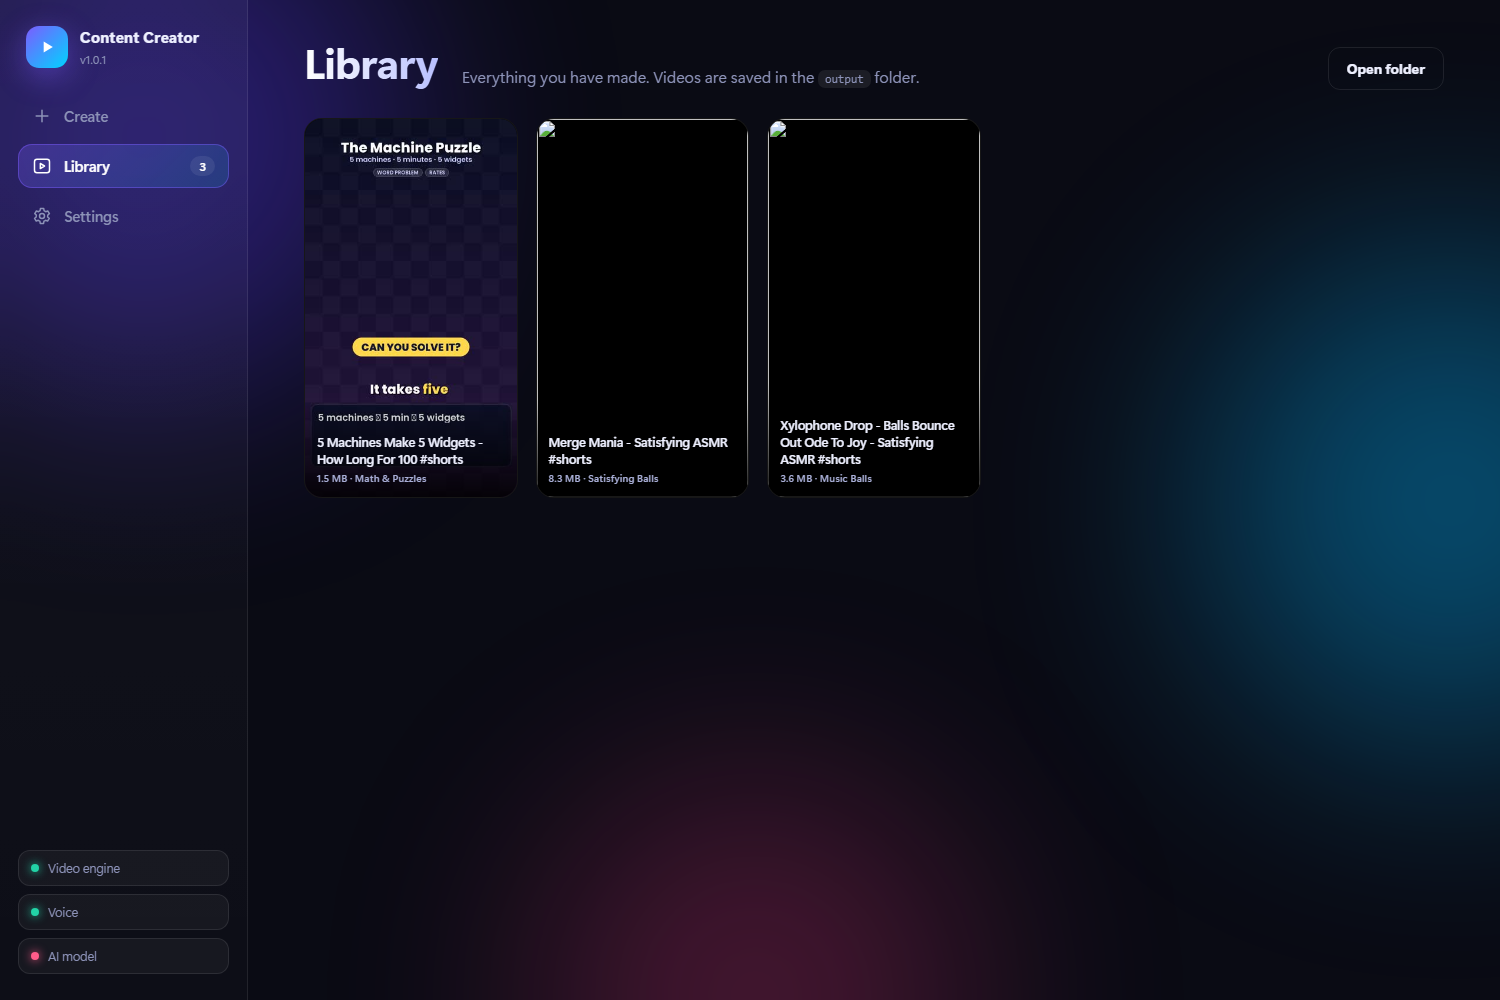
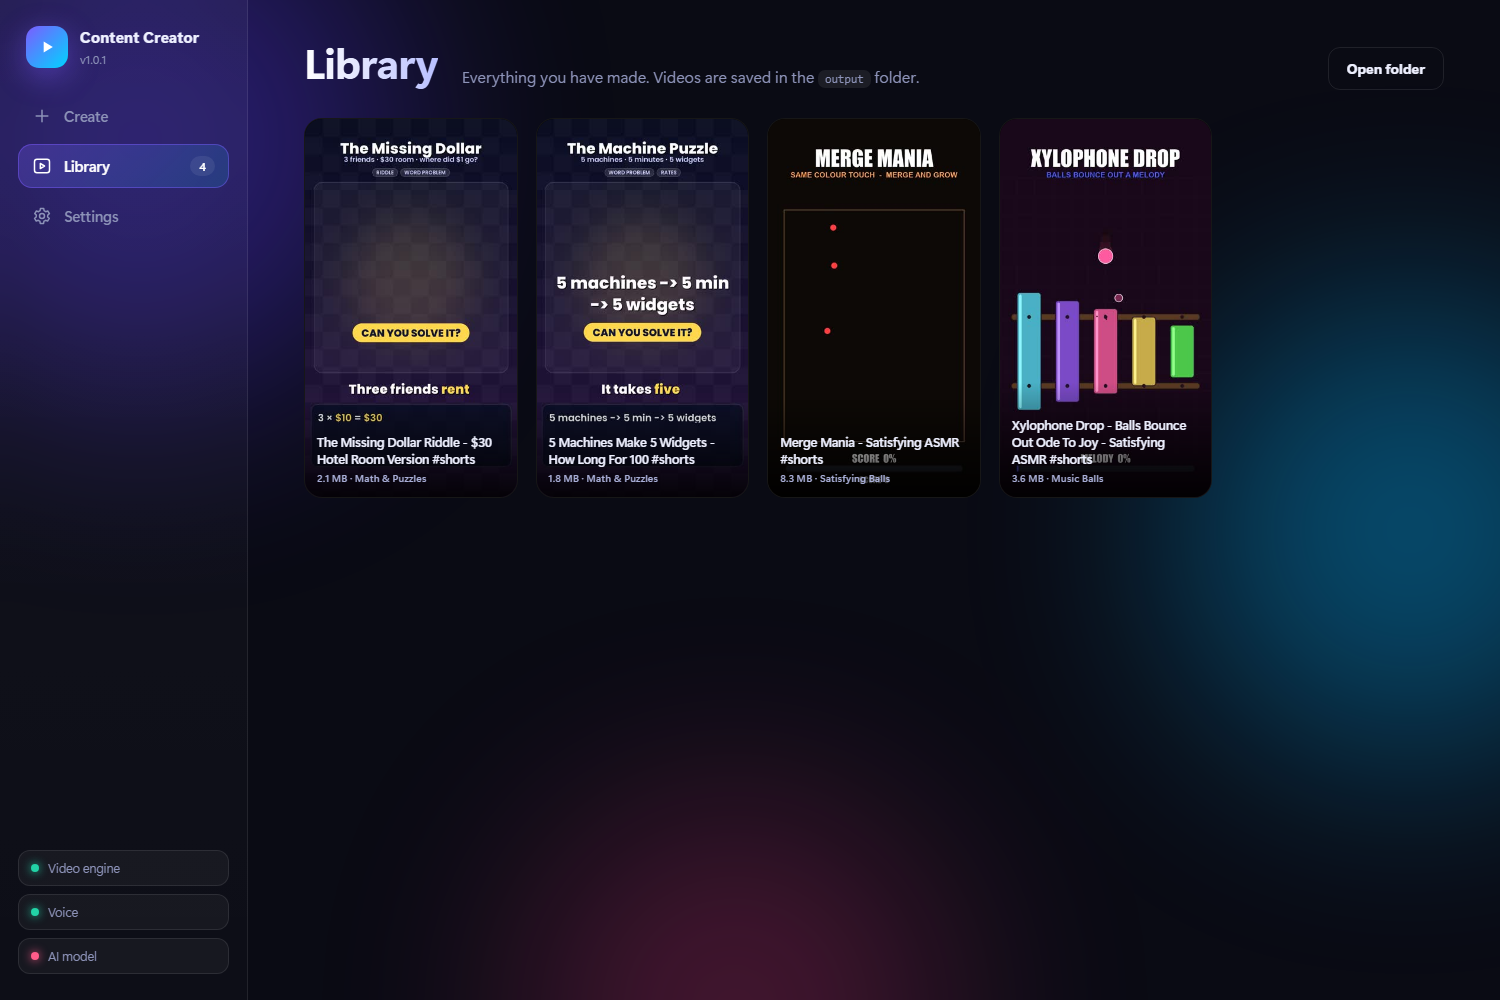
v1.0.2: rebuilt video layout (framed stage, centred content, merged equations), fixed thumbnails for titles with #, new screenshots

Changed region(s): [[0.2147, 0.093, 0.644, 0.496], [0.6747, 0.279, 0.828, 0.496], [0.6747, 0.124, 0.7973, 0.186]]

diff --git a/ui/app.js b/ui/app.js
@@ -11,6 +11,7 @@ const toast = (msg, kind = "") => {
   t.className = "toast " + kind; t.textContent = msg;
   $("#toasts").appendChild(t); setTimeout(() => t.remove(), 4800);
 };
+const mediaUrl = rel => "/media/" + rel.split("/").map(encodeURIComponent).join("/");
 const esc = s => String(s ?? "").replace(/[&<>"]/g, c => ({ "&": "&amp;", "<": "&lt;", ">": "&gt;", '"': "&quot;" }[c]));
 
 let S = { status: null, catalog: null, type: null, form: {}, recipe: null, jobs: [] };
@@ -185,11 +186,11 @@ async function loadLibrary() {
   const lib = await api("/api/library");
   $("#libCount").textContent = lib.length;
   $("#library").innerHTML = lib.length ? lib.map((v, i) => `
-    <div class="vid" data-i="${i}"><img loading="lazy" src="/media/${encodeURI(v.path.replace(/[^/]+$/, v.poster))}" alt="">
+    <div class="vid" data-i="${i}"><img loading="lazy" src="${mediaUrl(v.path.replace(/[^/]+$/, v.poster))}" alt="">
       <div class="play"><svg viewBox="0 0 24 24"><path d="M8 5.5v13l11-6.5z"/></svg></div>
       <div class="meta">${esc(v.name)}<small>${(v.size / 1048576).toFixed(1)} MB · ${label(v.kind)}</small></div></div>`).join("")
     : `<div class="empty" style="grid-column:1/-1">No videos yet. Make one from the Create page.</div>`;
-  $$(".vid").forEach(el => el.onclick = () => { const v = lib[+el.dataset.i]; $("#player").src = "/media/" + encodeURI(v.path); $("#modal").hidden = false; $("#player").play(); });
+  $$(".vid").forEach(el => el.onclick = () => { const v = lib[+el.dataset.i]; $("#player").src = mediaUrl(v.path); $("#modal").hidden = false; $("#player").play(); });
 }
 $("#closeModal").onclick = $("#modal").onclick = e => { if (e.target.id === "modal" || e.target.id === "closeModal") { $("#modal").hidden = true; $("#player").pause(); } };
 $("#openFolder").onclick = () => api("/api/open-folder", {});
@@ -212,7 +213,7 @@ function renderSettings() {
   $("#checks").innerHTML = [
     ["Video engine (ffmpeg)", st.tools.ffmpeg, "built in"],
     ["Voice-over (Kokoro)", st.tools.voice, st.tools.voice ? "ready" : "download needed"],
-    ["Subtitles / timing (Whisper)", true, "downloads itself on first use"],
+    ["Word timing (Whisper)", true, "on first use"],
     ["Ollama", ol.up, ol.up ? ol.models.length + " model(s)" : "not running"],
   ].map(([n, ok, note]) => `<li><i class="${ok ? "ok" : ""}">${ok ? "✓" : "!"}</i>${n}<em>${note}</em></li>`).join("");
   $("#dlVoice").disabled = st.tools.voice;

diff --git a/ui/style.css b/ui/style.css
@@ -38,6 +38,7 @@ main{position:relative;z-index:1;flex:1;min-width:0;padding:34px clamp(20px,4vw,
 .hero p{color:var(--muted);margin-top:8px;max-width:640px;line-height:1.55}
 .hero.slim{display:flex;flex-wrap:wrap;align-items:flex-end;gap:6px 24px}.hero.slim p{flex-basis:100%}
 .hero.slim .btn{margin-left:auto}
+a{color:#7fe6ff}
 code{background:var(--panel-2);padding:2px 7px;border-radius:7px;font-size:.9em}
 
 .banner{display:flex;align-items:center;gap:14px;padding:14px 18px;margin-bottom:24px;border-radius:16px;
@@ -135,3 +136,5 @@ select option{background:#14162a}
 .modal video{max-height:84vh;max-width:92vw;border-radius:18px;box-shadow:0 40px 100px -20px #000;background:#000}
 [hidden]{display:none!important}
 ::-webkit-scrollbar{width:10px;height:10px}::-webkit-scrollbar-thumb{background:rgba(255,255,255,.12);border-radius:99px}
+
+@media (prefers-reduced-motion: reduce){*,*::before,*::after{animation:none!important;transition:none!important}}

diff --git a/forge/renderer.py b/forge/renderer.py
@@ -17,6 +17,7 @@ from . import paths, speech
 
 W, H, FPS = 1080, 1920, 30
 HEAD, GAP, TAIL = 0.5, 0.28, 1.3
+STAGE_TOP, STAGE_BOT = 335, 1285
 
 THEMES = {
     "midnight": dict(bg1=(10, 14, 34), bg2=(40, 20, 62), y=(255, 216, 77), g=(125, 255, 138), p=(255, 92, 138), c=(95, 211, 255), r=(255, 92, 138)),
@@ -107,7 +108,7 @@ def card_sprite(text, label, col, size=100, maxw=860):
     text, label = _plain(text), _plain(label)
     tmp = ImageDraw.Draw(Image.new("RGBA", (10, 10)))
     f = fit_font(tmp, text, size, maxw - 120)
-    lf = font(42, False)
+    lf = font(max(34, int(f.size * 0.42)), False)
     tw = text_w(tmp, text, f)
     lw = text_w(tmp, " " + label, lf) if label else 0
     w = int(tw + lw + 90)
@@ -169,6 +170,41 @@ def check_sprite(col, size=140):
     return im
 
 
+def board_text_sprite(rn, size=84, maxw=900, max_lines=3):
+    """big centred text in the middle of the stage, wrapped to fit. rn = [(text, colour)]; digits are highlighted when colour is plain"""
+    tmp = ImageDraw.Draw(Image.new("RGBA", (10, 10)))
+    toks = []
+    for t, col in rn:
+        for w_ in t.split():
+            toks.append((w_, col))
+    while True:
+        f = font(size)
+        sp = text_w(tmp, " ", f)
+        lines, cur, cw = [], [], 0.0
+        for w_, col in toks:
+            ww = text_w(tmp, w_, f)
+            if cur and cw + sp + ww > maxw:
+                lines.append(cur); cur, cw = [], 0.0
+            cur.append((w_, col, ww))
+            cw += (sp if len(cur) > 1 else 0) + ww
+        if cur:
+            lines.append(cur)
+        if len(lines) <= max_lines or size <= 44:
+            break
+        size -= 6
+    lh = int(size * 1.32)
+    im = Image.new("RGBA", (maxw + 80, lh * len(lines) + 20), (0, 0, 0, 0))
+    d = ImageDraw.Draw(im)
+    for li, ln in enumerate(lines):
+        tw = sum(w[2] for w in ln) + sp * (len(ln) - 1)
+        x = (im.width - tw) / 2
+        for w_, col, ww in ln:
+            c = col
+            shadowed(d, (x, 8 + li * lh), w_, f, c, off=4)
+            x += ww + sp
+    return im
+
+
 def two_line_sprite(l1, l2, c2):
     tmp = ImageDraw.Draw(Image.new("RGBA", (10, 10)))
     f = font(92)
@@ -195,27 +231,51 @@ STOP = {"a", "an", "the", "of", "is", "are", "and", "to", "in", "on", "per", "fo
         "or", "at", "with", "from", "by", "as", "you", "he", "she", "they", "we", "i", "was", "were", "be", "not", "no", "now", "back", "more"}
 
 
+def b_say(s):
+    return _plain(s).strip()
+
+
+OPS = {"times": "×", "plus": "+", "minus": "-", "over": "/"}
+EQ = {"is", "equals", "makes", "gives"}
+
+
 def number_cards(words):
+    """[(time, text, label)]: spoken numbers become cards; 'three times nine is twenty-seven' becomes one '3 × 9 = 27' card"""
     ws = []
     for w in words:
         if ws and w["w"].startswith(".") and ws[-1]["w"][-1:].isdigit():
             ws[-1] = {"w": ws[-1]["w"] + w["w"], "s": ws[-1]["s"], "e": w["e"]}
         else:
             ws.append(dict(w))
-    out, seen = [], set()
-    for i, w in enumerate(ws):
-        if not re.search(r"\d", w["w"]):
+    bare = lambda x: x["w"].strip(".,!?;:")
+    isnum = lambda x: bool(re.search(r"\d", x["w"]))
+    out, seen, i = [], set(), 0
+    while i < len(ws):
+        w = ws[i]
+        if not isnum(w):
+            i += 1
             continue
-        txt = w["w"].strip(".,!?;:")
-        if not txt or txt in seen:
-            continue
-        seen.add(txt)
+        txt, j = bare(w), i
+        while True:                                   # chain: num (op num)* (is num)?
+            nxt = ws[j + 1] if j + 1 < len(ws) else None
+            nxt2 = ws[j + 2] if j + 2 < len(ws) else None
+            nxt3 = ws[j + 3] if j + 3 < len(ws) else None
+            if nxt and bare(nxt).lower() in OPS and nxt2 and isnum(nxt2) and not ws[j]["w"].endswith((".", "?", "!")):
+                txt += f" {OPS[bare(nxt).lower()]} {bare(nxt2)}"; j += 2; continue
+            if nxt and bare(nxt).lower() == "divided" and nxt2 and bare(nxt2).lower() == "by" and nxt3 and isnum(nxt3):
+                txt += f" ÷ {bare(nxt3)}"; j += 3; continue
+            if nxt and bare(nxt).lower() in EQ and nxt2 and isnum(nxt2) and not ws[j]["w"].endswith((".", "?", "!")):
+                txt += f" = {bare(nxt2)}"; j += 2; continue
+            break
         label = ""
-        if i + 1 < len(ws) and not w["w"].endswith((".", ",", "?", "!")):
-            nxt = ws[i + 1]["w"].strip(".,!?;:").lower()
-            if nxt.isalpha() and nxt not in STOP:
-                label = nxt
-        out.append((w["s"], txt, label))
+        if j == i and j + 1 < len(ws) and not ws[j]["w"].endswith((".", ",", "?", "!")):
+            nx = bare(ws[j + 1]).lower()
+            if nx.isalpha() and nx not in STOP:
+                label = nx
+        if txt not in seen:
+            seen.add(txt)
+            out.append((w["s"], txt, label))
+        i = j + 1
     return out
 
 
@@ -246,35 +306,65 @@ def render(spec, out_path, theme=None, voice=None, speed=1.04, progress=None, bp
     steps = []      # (time, runs, clear)
     caps = []       # chunks: (t0, t1, [(word, s, e)])
     last = n - 1
+
+    def stack(items):
+        """items: [dict(img, t0, t1, fx)] -> vertically centred inside the board; scaled down if they would not fit"""
+        gap = 30
+        avail = STAGE_BOT - STAGE_TOP - 40
+        tot = sum(it["img"].height for it in items) + gap * (len(items) - 1)
+        if tot > avail:
+            k = avail / tot
+            for it in items:
+                it["img"] = it["img"].resize((max(2, int(it["img"].width * k)), max(2, int(it["img"].height * k))), Image.LANCZOS)
+            tot = sum(it["img"].height for it in items) + gap * (len(items) - 1)
+        y = (STAGE_TOP + STAGE_BOT) / 2 - tot / 2
+        for it in items:
+            it["cx"], it["y"] = 540, int(y)
+            y += it["img"].height + gap
+            els.append(it)
+
     for p in plans:
         i, t0, dur, words = p["i"], p["t0"], p["dur"], p["words"]
         sb = beats[i]
         t1 = t0 + dur + 0.18
+        items = []
         if i == last and sb.get("cta", True):
-            els.append(dict(img=pill_sprite(spec.get("cta_tag", "BRAIN TEASER"), th), cx=540, y=650, t0=t0, t1=total, fx="pop"))
-            els.append(dict(img=two_line_sprite("Follow for more", "brain teasers", th["y"]), cx=540, y=820, t0=t0 + 0.4, t1=total, fx="up"))
+            items.append(dict(img=pill_sprite(spec.get("cta_tag", "BRAIN TEASER"), th), t0=t0, t1=total, fx="pop"))
+            items.append(dict(img=two_line_sprite("Follow for more", "brain teasers", th["y"]), t0=t0 + 0.4, t1=total, fx="up"))
             sfx_ev += [(t0, "pop"), (t0 + 0.4, "pop")]
         else:
             has_ans = bool(sb.get("answer"))
-            ys = [380, 585] if has_ans else [380, 585, 790]
             cards = sb.get("cards")
-            items = [(t0 + 0.25 + 0.5 * k, c, "") for k, c in enumerate(cards or [])] if cards else [(t0 + s, tx, lb) for s, tx, lb in number_cards(words)]
-            for k, (tt, tx, lb) in enumerate(items[:len(ys)]):
-                size = 100 if len(tx) <= 6 else (80 if len(tx) <= 9 else 62)
-                els.append(dict(img=card_sprite(tx, lb, th["y"], size), cx=540, y=ys[k], t0=max(t0, tt - 0.06), t1=t1, fx=("left", "right", "up")[k % 3]))
+            found = [(t0 + 0.25 + 0.5 * k, c, "") for k, c in enumerate(cards or [])] if cards else [(t0 + s, tx, lb) for s, tx, lb in number_cards(words)]
+            maxc = 2 if (has_ans or sb.get("stamp")) else 3
+            for k, (tt, tx, lb) in enumerate(found[:maxc]):
+                size = 128 if len(tx) <= 5 else (100 if len(tx) <= 8 else 78)
+                items.append(dict(img=card_sprite(tx, lb, th["y"], size, maxw=900), t0=max(t0, tt - 0.06), t1=t1, fx=("left", "right", "up")[k % 3]))
                 sfx_ev.append((tt, "pop"))
-            if i == 0:
-                els.append(dict(img=pill_sprite(spec.get("hook_tag", "CAN YOU SOLVE IT?"), th), cx=540, y=1110, t0=t0 + 0.5, t1=t1, fx="pop"))
             if sb.get("stamp"):
                 tx, col = sb["stamp"]
-                els.append(dict(img=stamp_sprite(tx, hexrgb(col) if isinstance(col, str) else col), cx=540, y=900, t0=t0 + dur * 0.35, t1=t1, fx="slam"))
+                items.append(dict(img=stamp_sprite(tx, hexrgb(col) if isinstance(col, str) else col), t0=t0 + dur * 0.35, t1=t1, fx="slam"))
                 sfx_ev.append((t0 + dur * 0.35, "buzz" if tx == "WRONG" else "hit"))
             if has_ans:
-                els.append(dict(img=big_sprite(sb["answer"], th["g"], 190 if len(sb["answer"]) <= 6 else 140), cx=540, y=905, t0=t0 + dur * 0.45, t1=t1, fx="pop"))
-                els.append(dict(img=check_sprite(th["g"]), cx=540, y=1140, t0=t0 + dur * 0.45 + 0.25, t1=t1, fx="pop"))
+                items.append(dict(img=big_sprite(sb["answer"], th["g"], 190 if len(sb["answer"]) <= 6 else 140), t0=t0 + dur * 0.45, t1=t1, fx="pop"))
+                items.append(dict(img=check_sprite(th["g"], 120), t0=t0 + dur * 0.45 + 0.25, t1=t1, fx="pop"))
                 sfx_ev.append((t0 + dur * 0.45, "chime"))
+            if len(items) < 2 and sb.get("steps") and not has_ans:
+                lines = [runs(x, th) for x in sb["steps"]]
+                items.append(dict(img=board_text_sprite(lines[-1]), t0=t0 + 0.12, t1=t1, fx="up"))
+            elif not items and not has_ans:
+                first = re.split(r"(?<=[.!?])\s", b_say(sb["say"]))[0]
+                if len(first) > 90:
+                    first = first[:90].rsplit(" ", 1)[0]
+                items.append(dict(img=board_text_sprite([(first.rstrip(".,"), th["y"])]), t0=t0 + 0.35, t1=t1, fx="up"))
+            if i == 0 and not items:
+                items.append(dict(img=pill_sprite(spec.get("hook_tag", "CAN YOU SOLVE IT?"), th), t0=t0 + 0.4, t1=t1, fx="pop"))
+            elif i == 0:
+                items.append(dict(img=pill_sprite(spec.get("hook_tag", "CAN YOU SOLVE IT?"), th), t0=t0 + 0.5, t1=t1, fx="pop"))
             for k, line in enumerate(sb.get("steps") or []):
                 steps.append((t0 + 0.3 + k * max(0.6, (dur - 0.6) / max(1, len(sb["steps"]))), runs(line, th), k == 0))
+        if items:
+            stack(items)
         cur = []                                                    # caption chunks of up to 3 words
         for w in words:
             cur.append((w["w"], t0 + w["s"], t0 + w["e"]))
@@ -313,8 +403,12 @@ def render(spec, out_path, theme=None, voice=None, speed=1.04, progress=None, bp
     xx = np.arange(W)[None, :, None]
     px += 6 * (((xx // 90) + (np.arange(H)[:, None, None] // 90)) % 2)         # faint checker texture
     bg = Image.fromarray(np.clip(px, 0, 255).astype(np.uint8), "RGB")
+    glow = Image.new("RGBA", (W, H), (0, 0, 0, 0))
+    ImageDraw.Draw(glow).ellipse((140, 420, 940, 1220), fill=th["y"] + (34,))
+    bg = Image.alpha_composite(bg.convert("RGBA"), glow.filter(ImageFilter.GaussianBlur(120))).convert("RGB")
     d = ImageDraw.Draw(bg, "RGBA")
-    f = fit_font(d, spec.get("title", ""), 70, 960)
+    d.rounded_rectangle((45, STAGE_TOP - 15, W - 45, STAGE_BOT + 5), radius=44, fill=(255, 255, 255, 12), outline=(255, 255, 255, 34), width=3)
+    f = fit_font(d, spec.get("title", ""), 76, 960)
     shadowed(d, ((W - text_w(d, spec.get("title", ""), f)) / 2, 96), spec.get("title", ""), f, TEXT)
     sf_ = fit_font(d, spec.get("subtitle", ""), 36, 980, False)
     d.text((W / 2, 205), spec.get("subtitle", ""), font=sf_, fill=LABEL, anchor="mm")
@@ -332,7 +426,7 @@ def render(spec, out_path, theme=None, voice=None, speed=1.04, progress=None, bp
     def step_sprite(rn, dim):
         k = (id(rn), dim)
         if k not in line_cache:
-            f2 = font(48, False)
+            f2 = font(50, False)
             tmp = ImageDraw.Draw(Image.new("RGBA", (10, 10)))
             total_w = sum(text_w(tmp, s, f2) for s, _ in rn)
             im = Image.new("RGBA", (int(total_w) + 20, 64), (0, 0, 0, 0))

diff --git a/CHANGELOG.md b/CHANGELOG.md
@@ -1,5 +1,9 @@
 # Changelog
 
+## 1.0.2
+- Video layout rebuilt: framed stage, centred content, big working-out line, merged equations (3 x 9 = 27), no missing symbols.
+- Library thumbnails and previews fixed for titles containing #.
+
 ## 1.0.1
 - README screenshots; deep links to pages inside the app.
 
